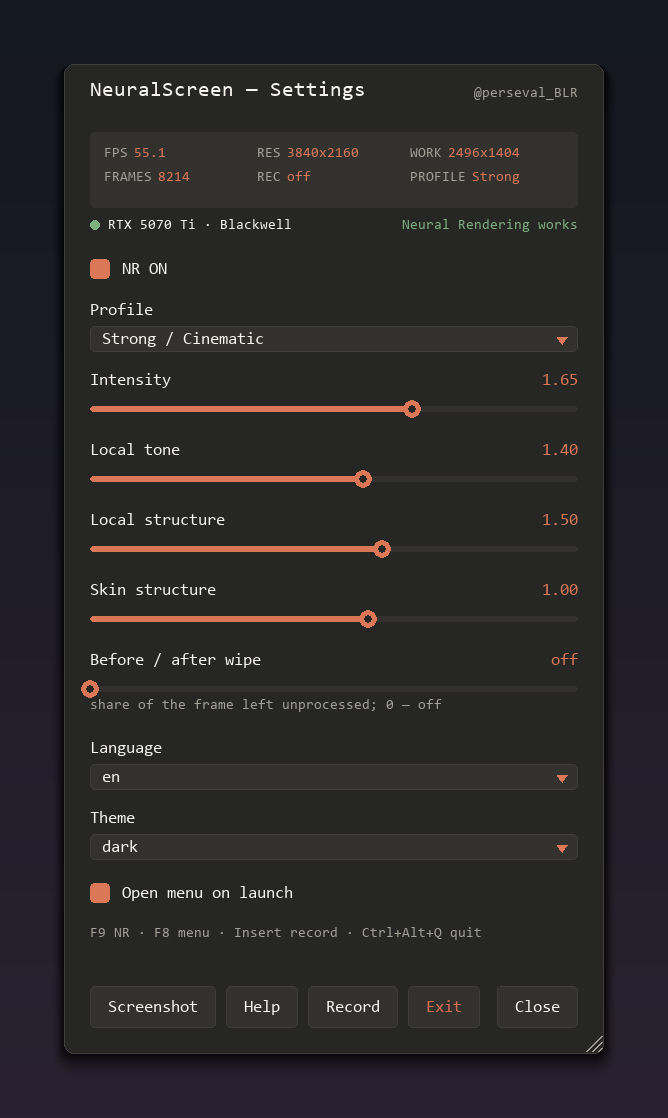
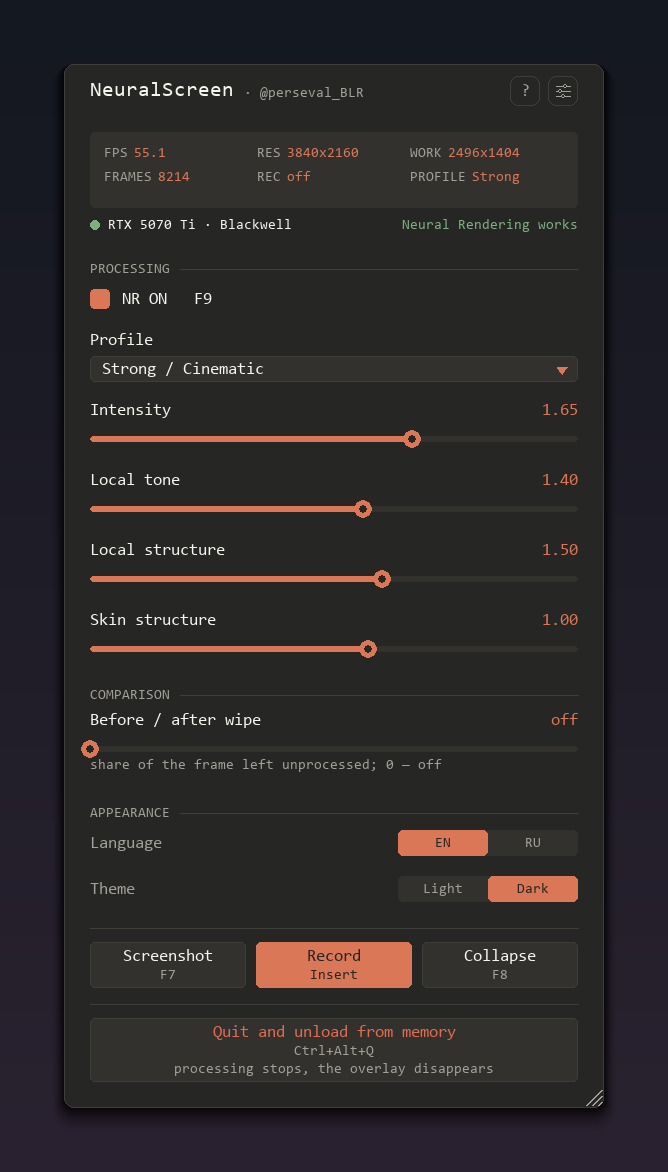
docs: README catches up with the reworked menu
The shipped README still described a menu that no longer exists — a "Close"
button, language and theme as dropdowns, no sections, no settings page, no
hotkey remapping, and a screenshot with no key.

- menu section rewritten around the actual layout: labelled sections, the
  status dot and what it really follows, segmented switches, the footer with
  key captions, the explicit quit row and why there is no × in the header
- header buttons and the settings page documented, with a screenshot of each
- F7 added to the controls table; remapping from the menu described,
  including why global hotkeys are suspended while a field waits for a key
- config.json table gains pixels_in_shm, split, theme, open_menu_on_start,
  hotkeys, menu_offset/scale/height
- protocol table gains OUTS/OAK2
- new section on what recording actually costs, with the three-column
  measurement, and why a bitrate slider would be a knob that looks useful
  and does nothing

docs/menu-settings.png added; the generator now takes its captions from
hotkeys.DEFAULT_BINDINGS instead of a hardcoded list, so the pictures cannot
drift from the code.

diff --git a/README.md b/README.md
@@ -62,16 +62,23 @@ desktop capture -> motion guides -> NGX worker (D3D12) -> overlay on top of the 
 |---|---|
 | `F9` | NR on/off. **Off is a bypass**: the overlay stays on screen showing the raw capture (no neural effect), and the desktop runs faster. Everything hides only on real exit. |
 | `F8` | open/close the menu. While it is open the overlay takes mouse and keyboard, so the menu works on top of a game; closed, it is click-through again and the desktop behaves normally. |
+| `F7` | screenshot — opens a native "Save As" dialog (JPEG 100%). The dialog runs in its own thread, so the pipeline does not stop while you pick a name |
 | `Insert` | start/stop video recording (MP4, AV1 NVENC, 60 fps, ~64 Mbps). Also a **Record** button in the menu |
 | `Ctrl+Alt+↑` / `Ctrl+Alt+↓` | processing scale ±0.05 |
 | `Ctrl+Alt+Q` | quit |
 
-Hotkeys are configurable: put `"hotkeys": {"toggle": "F9", "record": "Insert", ...}` into `config.json` (commands: `toggle`, `settings`, `record`, `scale_up`, `scale_down`, `quit`; keys: F1–F12, letters, digits, Insert/Delete/Home/End/PgUp/PgDn/arrows, modifiers Ctrl/Alt/Shift).
+Hotkeys are remappable **from the menu**: gear → Hotkeys → click a field →
+press the combination. Global hotkeys are suspended while a field is
+waiting, otherwise `F8` would toggle the menu instead of landing in the
+field; `Esc` cancels. The assignment is written to `config.json` right away
+and every button caption in the menu follows it.
+
+They can also be edited by hand: `"hotkeys": {"toggle": "F9", "record": "Insert", ...}` (commands: `toggle`, `settings`, `screenshot_menu`, `record`, `scale_up`, `scale_down`, `quit`; keys: F1–F12, letters, digits, Insert/Delete/Home/End/PgUp/PgDn/arrows, modifiers Ctrl/Alt/Shift).
 
 Hotkeys are registered via `RegisterHotKey`, not polled: the system delivers
 the keypress **only to us and not to the active app** — F9 inside a game
 toggles NR and the game never sees the key. The flip side: while
-NeuralScreen runs, F8, F9 and Insert belong to it.
+NeuralScreen runs, F7, F8, F9 and Insert belong to it.
 
 Tray icon: left click opens the same menu, right click gives NR on/off,
 scale and quit.
@@ -79,17 +86,45 @@ scale and quit.
 **The menu** lives inside the overlay itself — there is no separate settings
 window (there used to be one; it was a second interface over the same
 values, it stole focus from games, and it dragged the whole tcl/tk runtime
-along). It holds: live counters (FPS, resolution, work size, frames,
-recording time), NR on/off, profile (Faithful / Natural / Strong / Extreme),
-the four NR parameters, the before/after wipe, language (ru/en), light/dark
-theme, "open menu on launch", monitor selection, autostart with Windows,
-and the buttons Screenshot / Help / Record / Exit / Close. A status line
-shows the GPU, its architecture and whether Neural Rendering works on it.
-Screenshot opens a native "Save As" dialog (JPEG 100%).
+along).
 
-Drag it by the title bar, resize it by the bottom-right corner — both are
-highlighted when you point at them, and both are remembered in
-`config.json` (`menu_offset`, `menu_scale`).
+The main page carries what you touch during a session, in labelled
+sections:
+
+- **status** — live counters (FPS, resolution, work size, frames, recording
+  time) and a line with the GPU, its architecture and a dot: green when
+  Neural Rendering actually runs on this card, red when it does not. The dot
+  follows the worker's answer, not the architecture — the only thing that
+  knows for sure is `CreateFeature`
+- **processing** — NR on/off with its key, profile (Faithful / Natural /
+  Strong / Extreme) and the four NR parameters
+- **comparison** — the before/after wipe
+- **appearance** — language and theme as two-way switches rather than
+  dropdowns; a dropdown for two values is an extra click for nothing
+
+The footer holds Screenshot, Record and Collapse, each with its key printed
+under the label, and below a rule a single wide row: **Quit and unload from
+memory**, with the key and a note that processing stops and the overlay
+disappears. There is no × in the header on purpose — it used to sit next to
+the quit button, and two actions with very different consequences looked
+equally harmless.
+
+Two buttons in the header: **?** opens this page, and the sliders icon opens
+the settings page — monitor, "open menu on launch", autostart with Windows
+and hotkey remapping. Things touched once, kept out of the way.
+
+<table>
+<tr>
+<td><img src="docs/menu-light.png" alt="Main page" width="380"></td>
+<td><img src="docs/menu-settings.png" alt="Settings page" width="380"></td>
+</tr>
+</table>
+
+Drag it by the title bar, resize it by the bottom-right corner, drag the
+bottom edge to set the height — all three are highlighted when you point at
+them, and all are remembered in `config.json` (`menu_offset`, `menu_scale`,
+`menu_height`). Whatever does not fit the chosen height scrolls, with a thin
+bar on the right that appears only when there is somewhere to scroll.
 
 On launch the menu opens by itself. NeuralScreen draws on top of the desktop
 and otherwise gives no sign of life, so without this you could not tell
@@ -100,8 +135,8 @@ instead.
 
 | | Effect |
 |---|---|
-| `Ctrl+Alt+Q`, "Exit" in the menu, "Exit" in tray | terminate: worker shut down, windows closed, no processes left |
-| "Close" in the menu, `F8`, `Esc` | only hides the menu, the app keeps running |
+| `Ctrl+Alt+Q`, "Quit and unload from memory" in the menu, "Exit" in tray | terminate: worker shut down, windows closed, no processes left |
+| "Collapse" in the menu, `F8`, `Esc` | only hides the menu, the app keeps running |
 
 ## Recording (Insert)
 
@@ -130,6 +165,38 @@ instead.
 - Recording works in both NR ON and NR OFF (bypass) modes; the file duration
   matches real time (PTS is built from the wall clock).
 
+### What recording costs, and why it is not the bitrate
+
+Recording used to halve the frame rate. Measured at 4K with `NS_PHASE=1`,
+per frame:
+
+```
+                    idle    recording   after both fixes
+frame rate          55.7      20.6           30.1 FPS
+recv                17.5      31.6           24.5 ms
+encode (Python)      0.4      19.9            3.1 ms
+worker frame        17.4      24.1           21.3 ms
+```
+
+Two costs, neither of them the bitrate:
+
+- **19.9 ms of RGBA→yuv420p on the CPU** plus the nvenc submit, inside the
+  capture loop. Encoding now runs in its own thread behind a 4-slot queue;
+  the loop only computes the PTS and hands the frame over. On a full queue
+  the frame is dropped rather than stalling the loop — the user is looking at
+  the screen, not at the file, and a gap does not shift timing because the
+  PTS comes from the clock.
+- **~7 ms of pushing 33 MB down the pipe.** The `OUTS` channel hands the
+  worker a named section to write pixels into instead. The copy out of the
+  section happens on the reader thread; a copy is unavoidable because the
+  section has one slot and the worker overwrites it next frame, while a
+  recorded frame outlives that.
+
+Lowering the bitrate does nothing for any of this: the time goes into the
+colour conversion, not into the encoder. Which is why there is no bitrate
+slider in the menu — it would be a knob that looks like it helps and does
+not.
+
 ## config.json
 
 | Field | Meaning |
@@ -145,6 +212,12 @@ instead.
 | `worker_present` | worker shows the frame in its own window (`false` — pygame output) |
 | `motion_on_gpu` | worker upscales the motion field (`false` — CPU) |
 | `capture_in_worker` | worker captures the desktop itself (DDA, `false` — dxcam in Python) |
+| `pixels_in_shm` | result pixels come back through a shared section instead of the pipe (`false` — pipe, as before) |
+| `split` | 0–1, share of the frame left unprocessed for the before/after wipe; 0 — off |
+| `theme` | `light` / `dark` |
+| `open_menu_on_start` | open the menu on launch; `false` — a short alert instead |
+| `hotkeys` | `{"toggle": "F9", ...}` — see Controls |
+| `menu_offset`, `menu_scale`, `menu_height` | where the menu sits, its scale and height. Written by the app, not meant to be edited by hand (`menu_height: null` — fit the content) |
 
 ## Architecture
 
@@ -164,6 +237,7 @@ They talk over stdin/stdout with a binary protocol:
 | `FRM1` | frame: header, then either payload (RGBA8 + motion) or "in shared memory" flag |
 | `OUT1` | result: RGBA8 full-res, or `bytes=0` — the worker already presented it |
 | `RNSZ` / `RACK` | change work resolution on the fly, no process restart |
+| `OUTS` / `OAK2` | named section the worker writes result pixels into; the reply then carries `bytes = 0xFFFFFFFF` instead of a payload |
 
 **Capture.** On `DDA1` the worker opens Desktop Duplication on the GPU: each
 frame is copied into a cross-device shared texture and swizzled to RGBA.
